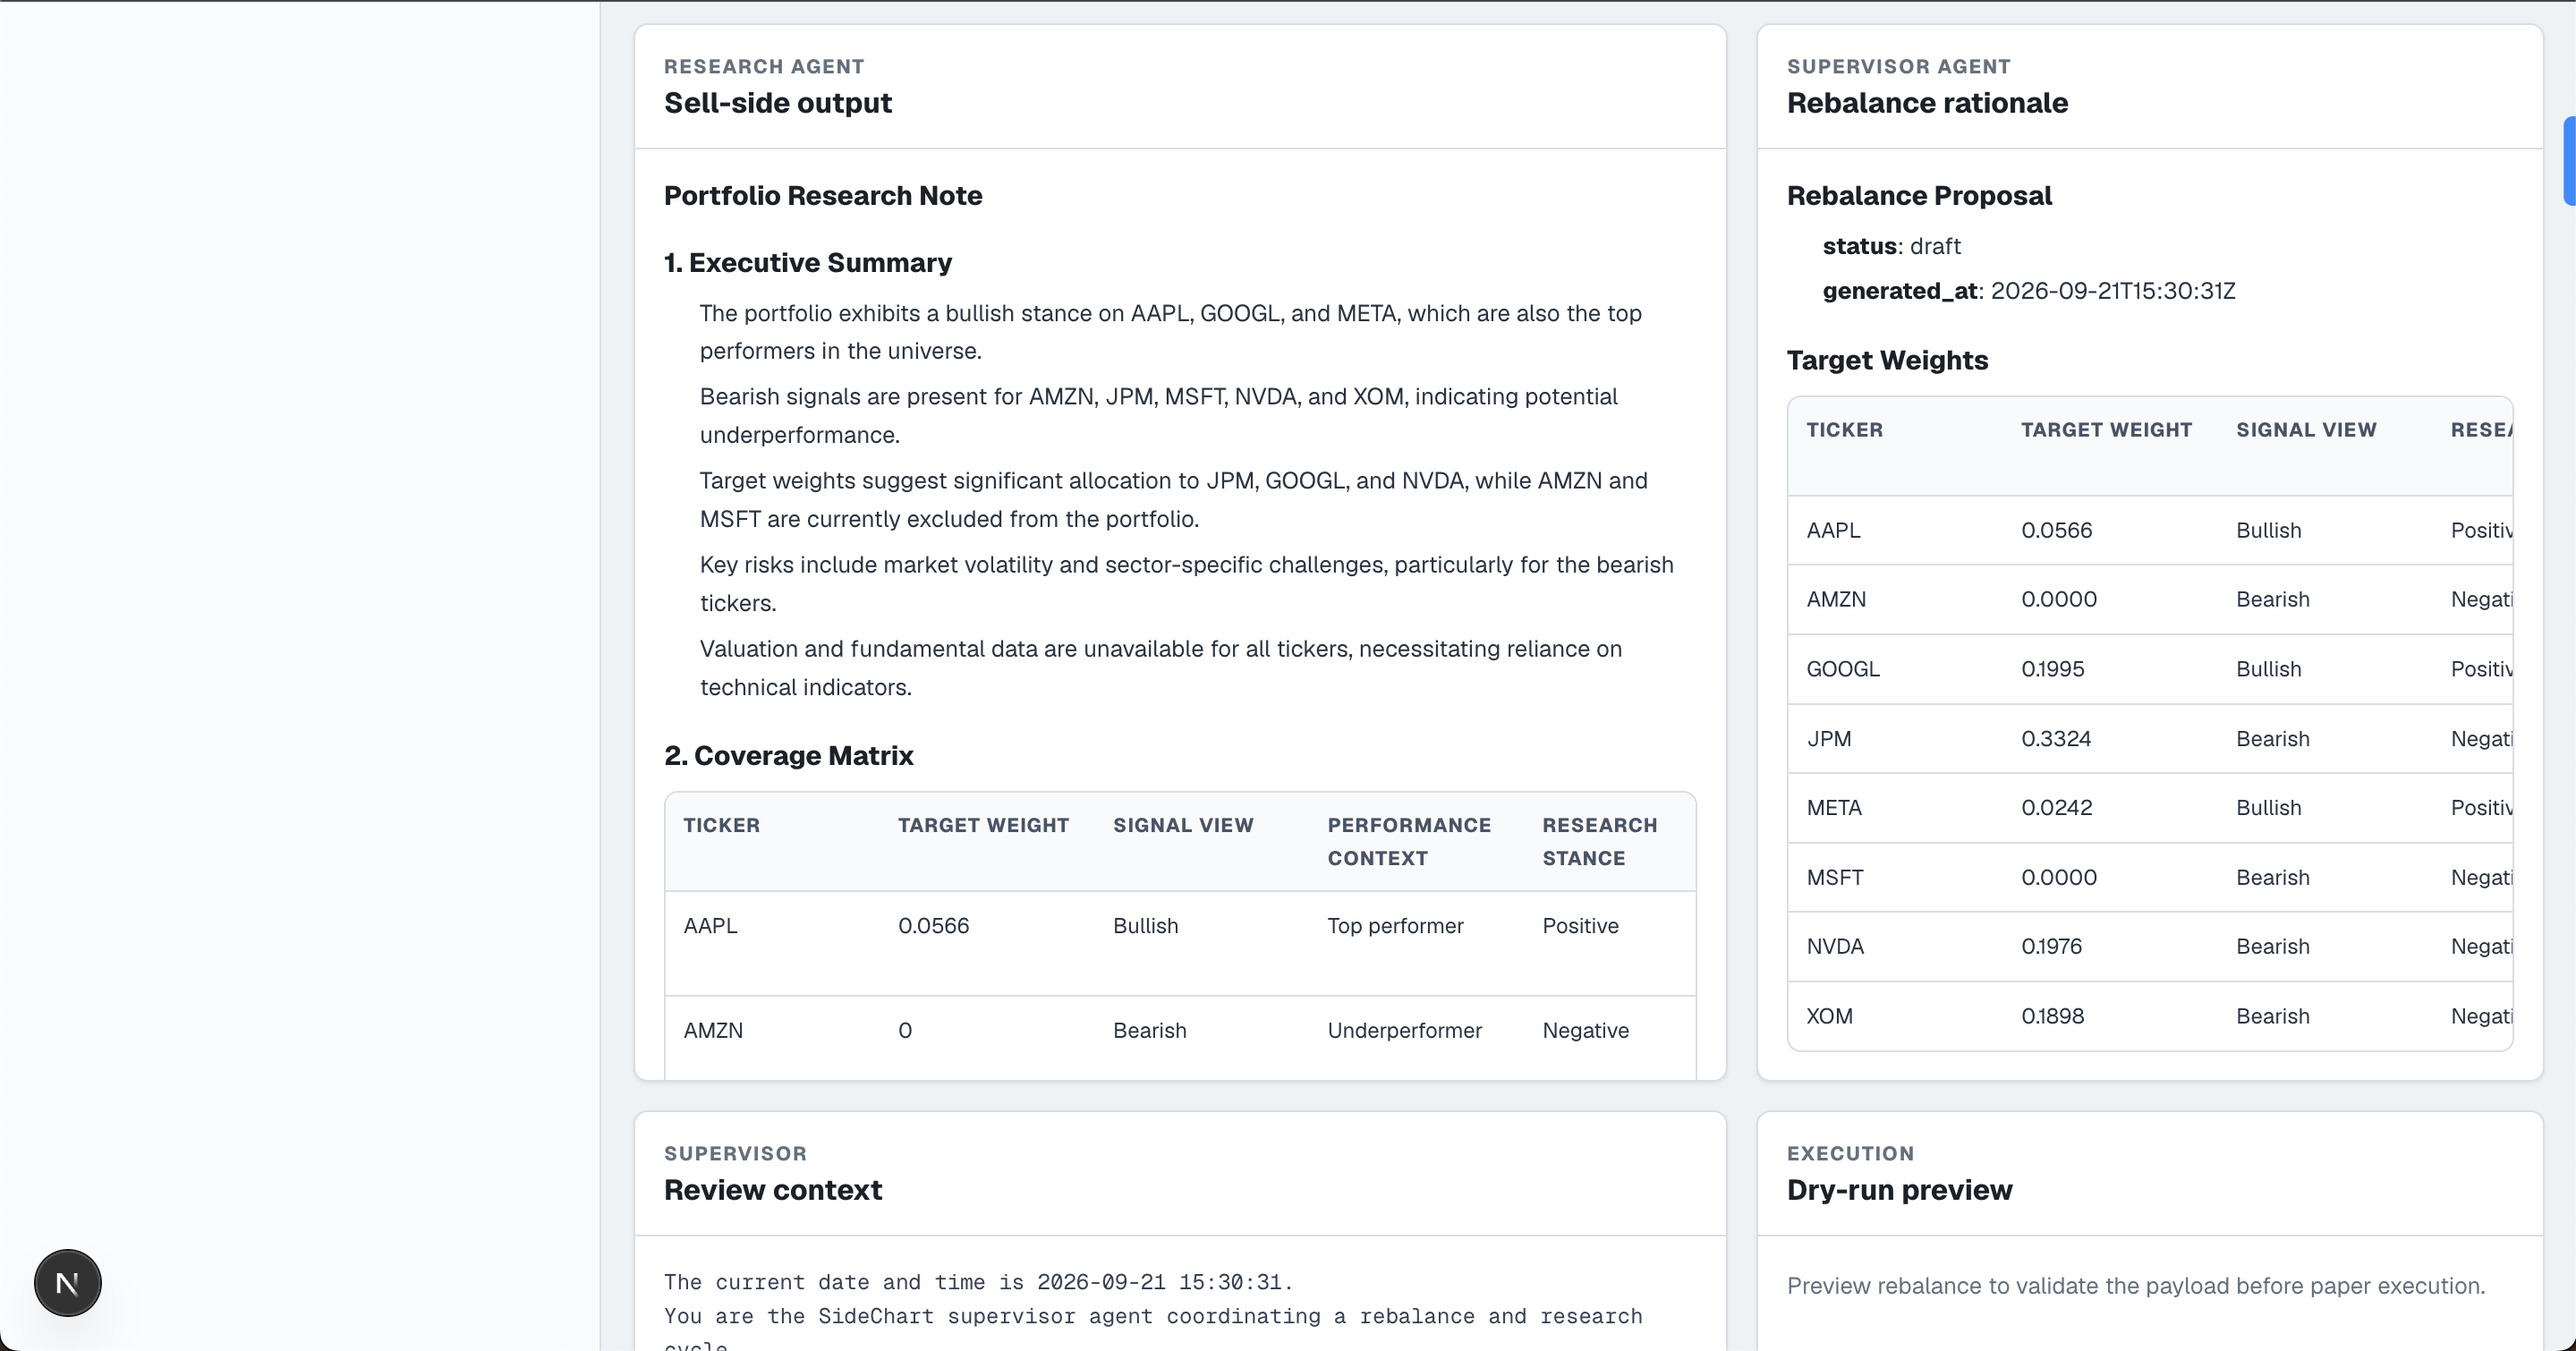
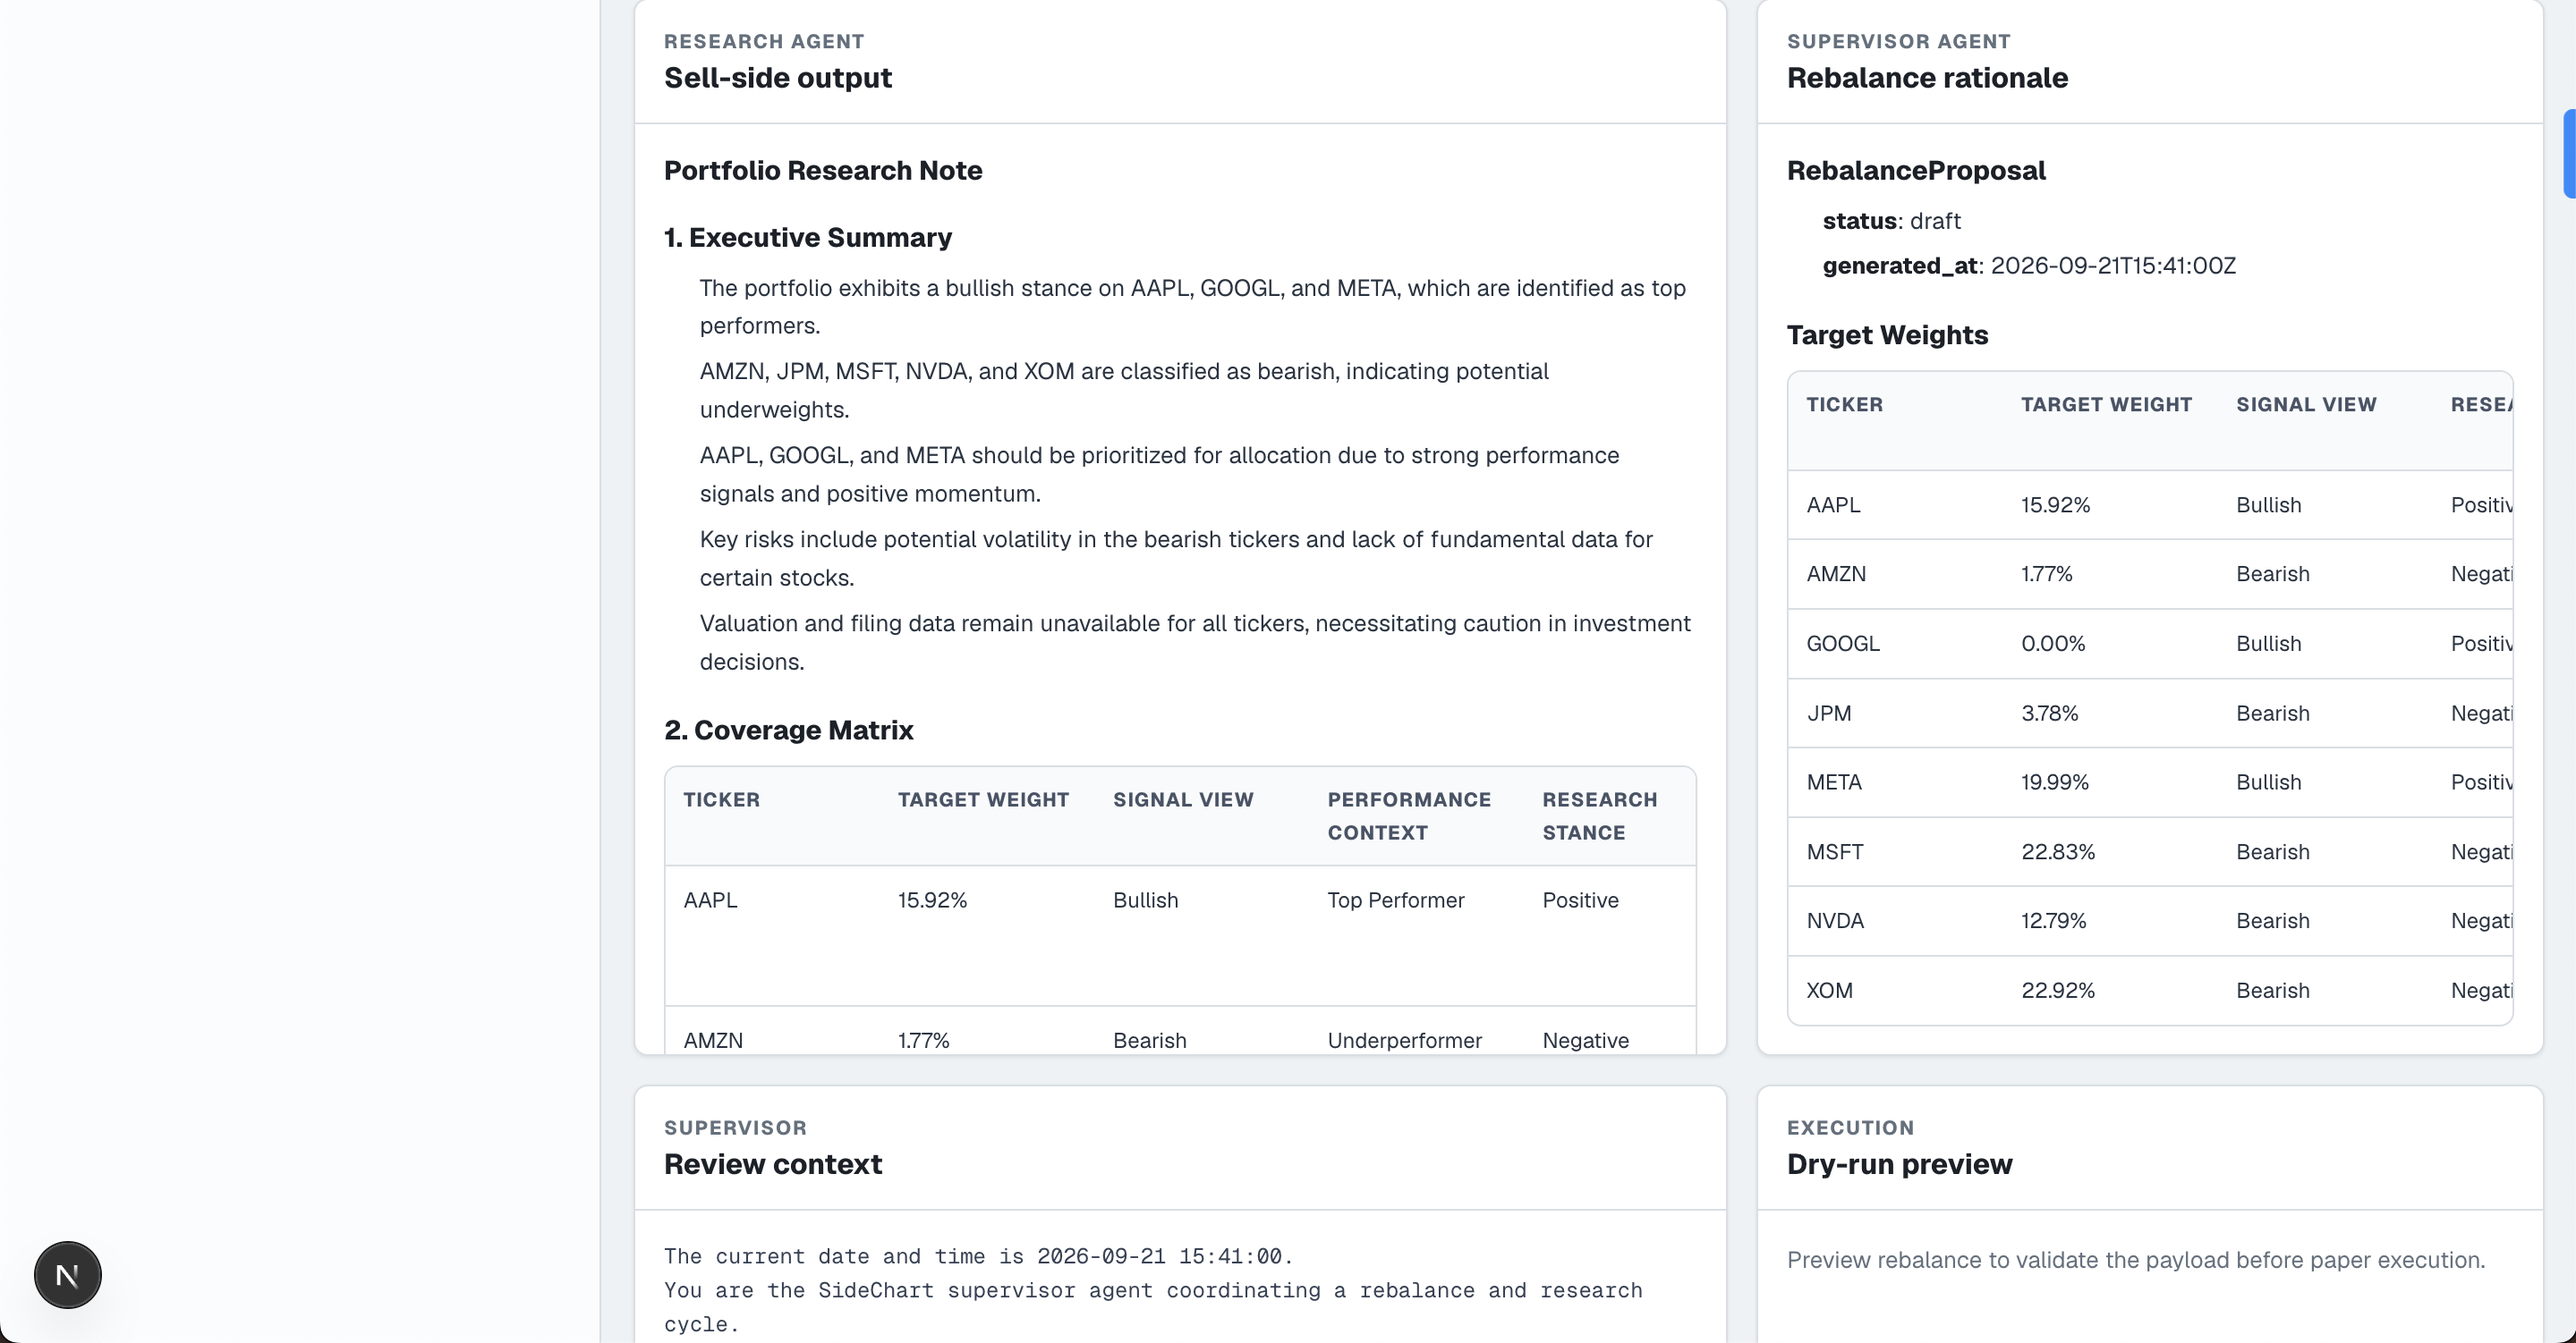
minor updates

diff --git a/frontend/app/page.tsx b/frontend/app/page.tsx
@@ -791,7 +791,7 @@ export default function Home() {
 
             <div className="field-grid">
               <div className="field">
-                <label htmlFor="lookback">Lookback</label>
+                <label htmlFor="lookback">Lookback (in days)</label>
                 <input
                   id="lookback"
                   type="number"

diff --git a/README.md b/README.md
@@ -1,1 +1,263 @@
-# sidechart
+# SideChart
+
+SideChart is an AI-assisted portfolio research and rebalance workflow. The current build connects a FastAPI backend, reusable trading/research contracts, OpenAI-powered agent synthesis, and a Next.js dashboard.
+
+The application is still under active development. Outputs are intended for research, review, and paper-trading workflows only. They are not personalized investment advice, execution recommendations, or a guarantee of returns.
+
+## Current Development Snapshot
+
+SideChart now supports an end-to-end local workflow:
+
+1. Load market data for a user-defined ticker universe.
+2. If the Universe field is empty, discover bullish tickers from broad market data and rank them by recent monthly return.
+3. Generate technical bullish/bearish classifications from RSI, EMA, MACD, price action, and volume confirmation.
+4. Run the dev analysis pipeline across the active universe.
+5. Generate risk based draft target weights.
+6. Display optimized weights in the frontend Target Allocation panel.
+7. Trigger researcher and supervisor agents from the frontend.
+8. Render agent outputs as polished markdown memos.
+9. Preview dry-run rebalance payloads before any paper execution path.
+
+## Architecture
+
+```text
+frontend/             Next.js dashboard for financial workflows
+backend/server.py     FastAPI API layer and local orchestration entrypoint
+src/contracts/        Shared trading contracts
+src/contracts/dev/    Dev market data, portfolio, risk, holdings, and pipeline modules
+src/agents/research/  Sell-side researcher agent prompts/tools
+src/agents/supervisor Supervisor agent prompts/tools and rebalance synthesis context
+scripts/run_local.py  Local runner for backend and frontend together
+```
+
+## Backend
+
+The backend is implemented in `backend/server.py` and exposes the project through a FastAPI API. It loads environment variables from `.env`, configures local CORS for the frontend, imports the local `src` contracts, and normalizes pandas outputs into JSON safe API responses.
+
+Current backend capabilities include:
+
+- Health check and API discovery.
+- Market data retrieval from the dev market data contract.
+- S&P 500 and Nasdaq-100 ticker discovery helpers.
+- RSI, EMA, MACD, and full signal-generation endpoints.
+- Dev analysis pipeline execution.
+- Rebalance proposal construction.
+- Current holdings retrieval through the dev holdings contract.
+- Buy/sell order dry run endpoints.
+- Rebalance execution dry run endpoint.
+- Researcher agent prompt and run endpoint.
+- Supervisor context and run endpoint.
+- Optional document ingestion hooks for researcher/supervisor knowledge stores.
+
+Important local endpoints:
+
+```text
+GET  /health
+POST /market-data
+POST /signals/generate
+POST /pipeline/dev/analyze
+POST /execution/rebalance
+POST /agents/research/run
+POST /agents/supervisor/run
+GET  /docs
+```
+
+## Contracts
+
+The contracts layer contains the reusable financial workflow logic.
+
+### Market Data
+
+`src/contracts/dev/market_data.py` retrieves yfinance OHLCV data and normalizes it into:
+
+```text
+ticker, date, open, high, low, close, volume
+```
+
+When no tickers are supplied, the module attempts to discover a broader universe from S&P 500 and Nasdaq-100 constituents, with a static large-cap fallback list. The automatic universe size is controlled with:
+
+```text
+MARKET_DATA_MAX_TICKERS=120
+```
+
+### Signals
+
+`src/contracts/signals.py` generates bullish and bearish classifications using:
+
+- Fast and slow RSI
+- MACD line, signal line, and histogram
+- Fast and slow EMA trend
+- Latest price action
+- Volume confirmation
+
+The signal generator now validates required columns, coerces numeric fields, handles insufficient history explicitly, and adds a `_Signal` marker to the latest row.
+
+### Pipeline
+
+`src/contracts/dev/pipeline.py` orchestrates the current dev analysis flow:
+
+1. Pull market data.
+2. Generate technical signals.
+3. Rank bullish candidates by recent return.
+4. Optimize target weights for the active universe.
+5. Return market data, signals, candidates, top performers, and weights.
+
+The risk optimizer now applies weights across the active Universe rather than only the smaller top-performer set, so the frontend allocation table reflects all tickers under review.
+
+### Risk
+
+`src/contracts/dev/risk.py` uses Riskfolio-Lib to produce draft target weights. It now:
+
+- Deduplicates and normalizes input tickers.
+- Returns equal weights for insufficient data or optimizer failures.
+- Completes the final weight table back to every requested ticker.
+- Normalizes weights to sum to 100%.
+
+## Agents
+
+SideChart currently has two agent workflows.
+
+### Research Agent
+
+The research agent produces a portfolio universe sell-side research note. It is prompted to cover every ticker in the active Universe and structure output as:
+
+- Executive Summary
+- Coverage Matrix
+- Ticker-by-Ticker Notes
+- Portfolio Implications
+- Compliance Note
+
+The frontend calls:
+
+```text
+POST /agents/research/run
+```
+
+### Supervisor Agent
+
+The supervisor agent consumes the research output, pipeline results, target weights, signals, and performance context. It produces a rebalance memo with:
+
+- RebalanceProposal
+- Rationale
+- Target weight and action tables
+- Assumptions
+- Risks
+- Data quality and open items
+
+The frontend calls:
+
+```text
+POST /agents/supervisor/run
+```
+
+## Frontend
+
+The frontend is a Next.js dashboard in `frontend/`. It is designed as a restrained, professional interface for finance users.
+
+Current UI capabilities:
+
+- Universe input box.
+- Lookback (In Days) and position count controls.
+- Backend health check.
+- Market data loading.
+- Automatic bullish-universe discovery when Universe is empty.
+- Signal generation.
+- Full analysis pipeline execution.
+- Target Allocation panel with draft portfolio weights.
+- Bullish/bearish signal book.
+- Latest indicator snapshot table.
+- Research context input.
+- Supervisor rationale brief preview.
+- Research agent trigger and rendered markdown output.
+- Supervisor agent trigger and rendered markdown output.
+- Raw supervisor context view.
+- Dry-run rebalance preview.
+
+The agent output panels render common markdown structures including headings, lists, bold text, inline code, and markdown tables.
+
+## Local Development
+
+Prerequisites:
+
+- Python with `uv`
+- Node.js
+- npm
+
+Install frontend dependencies if needed:
+
+```bash
+cd frontend
+npm install
+```
+
+Run the backend and frontend together:
+
+```bash
+python scripts/run_local.py
+```
+
+The local runner starts:
+
+```text
+Backend:  http://127.0.0.1:8000
+Frontend: http://localhost:3000
+API docs: http://127.0.0.1:8000/docs
+```
+
+You can skip prerequisite checks with:
+
+```bash
+python scripts/run_local.py --skip-checks
+```
+
+## Environment Variables
+
+Common environment variables:
+
+```text
+OPENAI_API_KEY=...
+OPENAI_MODEL=gpt-4o-mini
+CORS_ORIGINS=http://localhost:3000,http://127.0.0.1:3000
+MARKET_DATA_MAX_TICKERS=120
+IB_HOST=127.0.0.1
+IB_PORT=7497
+IB_CLIENT_ID=17
+RESEARCHER_API_ENDPOINT=...
+RESEARCHER_API_KEY=...
+SUPERVISOR_API_ENDPOINT=...
+SUPERVISOR_API_KEY=...
+NEXT_PUBLIC_API_BASE_URL=http://127.0.0.1:8000
+```
+
+Only `OPENAI_API_KEY` is required for live agent generation. Market data and most local backend routes can run without the research/supervisor ingestion keys.
+
+## Validation Commands
+
+Useful checks during development:
+
+```bash
+python3 -m py_compile backend/server.py src/contracts/signals.py src/contracts/dev/market_data.py src/contracts/dev/pipeline.py src/contracts/dev/risk.py
+```
+
+```bash
+cd frontend
+npm run lint
+npx tsc --noEmit --incremental false
+```
+
+## Current Limitations
+
+- Market data depends on yfinance availability and upstream ticker sources.
+- Agent outputs depend on OpenAI API configuration and should be reviewed by a human.
+- IBKR execution paths are present, but the current frontend path emphasizes dry-run previews.
+- Research/valuation data is limited to the supplied context unless additional external data tools are connected.
+- This project is not yet production hardened for authentication, audit logging, execution approvals, or portfolio accounting.
+
+## Near-Term Next Steps
+
+- Add persisted run history for research, supervisor outputs, and rebalance proposals.
+- Add richer current holdings integration in the frontend.
+- Add explicit approval states before any paper/live execution.
+- Expand data quality reporting for failed tickers and stale market rows.
+- Add focused tests for market discovery, signal classification, optimizer fallbacks, and agent endpoint payloads.
+- Consider richer markdown rendering if agent output grows beyond the current supported subset.
